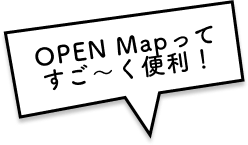
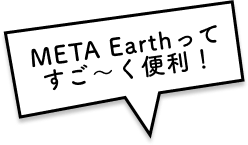
a

Changed region(s): [[0.1129, 0.1655, 0.875, 0.469]]

diff --git a/src/app/(index)/components/use.tsx b/src/app/(index)/components/use.tsx
@@ -9,10 +9,7 @@ const list = [
     title: "地元のカフェ・レストラン",
     content: (
       <>
-        「今日のランチはどこにしよう？」そんな時におすすめしたいのが、OPEN
-        Mapで見つけた地元の人気カフェ。
-        <br />
-        特典付きのクーポンが使えるのでちょっとお得に美味しいランチを楽しめます。新しいお気に入りのカフェを見つけてみては？
+        「今日のランチはどこにしよう？」そんな時におすすめしたいのが、META Earthで見つけた地元の人気カフェ。<br />特典付きのクーポンが使えるのでちょっとお得に美味しいランチを楽しめます。新しいお気に入りのカフェを見つけてみては？
       </>
     ),
   },
@@ -21,11 +18,8 @@ const list = [
     title: "薬局・ドラッグストア",
     content: (
       <>
-        急に必要になった薬や日用品、どこで買えばいいか迷ったらOPEN
-        Mapでチェック！
-        <br />
-        近くの薬局で、ポイントアップのキャンペーンが開催中。
-        <br />
+        急に必要になった薬や日用品、どこで買えばいいか迷ったらMETA Earthでチェック！<br />
+        近くの薬局で、ポイントアップのキャンペーンが開催中。<br />
         日常のお買い物がもっとお得になりますよ。
       </>
     ),
@@ -35,10 +29,8 @@ const list = [
     title: "アミューズメントパーク",
     content: (
       <>
-        家族や友達と過ごす週末、どこに行こうか迷ったら、近くのアミューズメントパークで楽しんでみては？
-        <br />
-        OPEN
-        Mapを使えば、特別割引のNFTも手に入るので、遊びながらお得に過ごせます。
+        家族や友達と過ごす週末、どこに行こうか迷ったら、近くのアミューズメントパークで楽しんでみては？<br />
+        META Earthを使えば、特別割引のNFTも手に入るので、遊びながらお得に過ごせます。
       </>
     ),
   },
@@ -47,8 +39,7 @@ const list = [
     title: "ポップアップストア",
     content: (
       <>
-        街を歩いていたらOPEN Mapに期間限定のポップアップストアが表示されました！
-        普段は手に入らないアイテムやお得なキャンペーンが目白押し！
+        街を歩いていたらMETA Earthに期間限定のポップアップストアが表示されました！ 普段は手に入らないアイテムやお得なキャンペーンが目白押し！
         <br />
         今だけの特別なショッピング体験をぜひお見逃しなく！
       </>
@@ -59,9 +50,7 @@ const list = [
     title: "美容院・理容室",
     content: (
       <>
-        髪を切りたいなと思ったら、OPEN Mapで近くの美容院を探してみてください！
-        初回限定クーポン付きの美容院がすぐに見つかり、気軽に予約もできちゃいます。
-        新しい自分に生まれ変わるチャンスかも？
+        髪を切りたいなと思ったら、META Earthで近くの美容院を探してみてください！ 初回限定クーポン付きの美容院がすぐに見つかり、気軽に予約もできちゃいます。 新しい自分に生まれ変わるチャンスかも？
       </>
     ),
   },
@@ -70,10 +59,7 @@ const list = [
     title: "ネイルサロン・エステサロン",
     content: (
       <>
-        季節の変わり目に合わせて、ネイルやエステを楽しんでみては？
-        <br />
-        OPEN Mapで開けば、今ならお得なクーポンが付いているサロンもありますよ。
-        リフレッシュして、新しい季節を迎えよう！
+        季節の変わり目に合わせて、ネイルやエステを楽しんでみては？<br />META Earthで開けば、今ならお得なクーポンが付いているサロンもありますよ。 リフレッシュして、新しい季節を迎えよう！
       </>
     ),
   },
@@ -82,10 +68,7 @@ const list = [
     title: "フィットネス・ヨガスタジオ",
     content: (
       <>
-        健康を意識し始めたら、まずはフィットネスジムやヨガスタジオをOPEN
-        Mapで探してみよう！
-        <br />
-        初回体験クーポン付きのスタジオが見つかれば、お試しで気軽に運動をスタートできます！
+        健康を意識し始めたら、まずはフィットネスジムやヨガスタジオをMETA Earthで探してみよう！<br />初回体験クーポン付きのスタジオが見つかれば、お試しで気軽に運動をスタートできます！
       </>
     ),
   },
@@ -94,11 +77,7 @@ const list = [
     title: "クリーニング店",
     content: (
       <>
-        衣替えの季節、クリーニングが必要な衣類をどうしよう？
-        <br />
-        そんな時はOPEN Mapで近くのクリーニング店をチェック。
-        <br />
-        今だけ割引キャンペーンを実施している店舗も簡単に見つかります！
+        衣替えの季節、クリーニングが必要な衣類をどうしよう？<br />そんな時はMETA Earthで近くのクリーニング店をチェック。<br />今だけ割引キャンペーンを実施している店舗も簡単に見つかります！
       </>
     ),
   },
@@ -107,10 +86,7 @@ const list = [
     title: "リサイクルショップ",
     content: (
       <>
-        家に眠っている不用品、どうにかしたい！
-        <br />
-        OPEN
-        Mapを開けば買取価格アップのキャンペーン中のお店も見つかって、お得に断捨離できるチャンスです！
+        家に眠っている不用品、どうにかしたい！<br />META Earthを開けば買取価格アップのキャンペーン中のお店も見つかって、お得に断捨離できるチャンスです！
       </>
     ),
   },
@@ -119,10 +95,7 @@ const list = [
     title: "自動車整備工場",
     content: (
       <>
-        「車の点検が必要だけど、どこに持っていけばいいか迷った時にはOPEN
-        Mapが便利！
-        <br />
-        オイル交換工賃無料等のサービスがある整備工場を簡単に見つけて、すぐに予約してみましょう。
+        「車の点検が必要だけど、どこに持っていけばいいか迷った時にはMETA Earthが便利！<br />オイル交換工賃無料等のサービスがある整備工場を簡単に見つけて、すぐに予約してみましょう。
       </>
     ),
   },
@@ -131,10 +104,7 @@ const list = [
     title: "スタンプラリー",
     content: (
       <>
-        地元をもっと楽しむために、OPEN Mapでスタンプラリーに参加しよう！
-        <br />
-        名所を巡りながらスタンプを集めて、限定NFTも手に入れることができます。
-        家族や友人と一緒に、楽しい冒険を楽しみましょう！
+        地元をもっと楽しむために、META Earthでスタンプラリーに参加しよう！<br />名所を巡りながらスタンプを集めて、限定NFTも手に入れることができます。 家族や友人と一緒に、楽しい冒険を楽しみましょう！
       </>
     ),
   },

diff --git a/src/app/(index)/components/faq/faq.tsx b/src/app/(index)/components/faq/faq.tsx
@@ -7,19 +7,19 @@ import useScrollAnimations from "@/hooks/useScrollAnimations";
 const faqData: FaqItemPropsType[] = [
   {
     id: "1",
-    question: "OPEN Mapとはどのようなサービスですか？",
+    question: "META Earthとはどのようなサービスですか？",
     answer: (
       <>
-        OPEN Mapは、あなたの現在地に基づいて、地域の特典やイベント情報を一目で確認できるパーソナル地域情報マップです。カフェや店舗、観光スポットなど、日常生活をもっと便利にする情報が満載です。
+        META Earthは、あなたの現在地に基づいて、地域の特典やイベント情報を一目で確認できるパーソナル地域情報マップです。カフェや店舗、観光スポットなど、日常生活をもっと便利にする情報が満載です。
       </>
     ),
   },
   {
     id: "2",
-    question: "OPEN Mapは無料で利用できますか？",
+    question: "META Earthは無料で利用できますか？",
     answer: (
       <>
-        はい、OPEN Mapは無料で利用できます。地図上で特典や情報を探して、割引やキャンペーンなどを簡単に利用することができます。
+        はい、META Earthは無料で利用できます。地図上で特典や情報を探して、割引やキャンペーンなどを簡単に利用することができます。
       </>
     ),
   },
@@ -28,16 +28,16 @@ const faqData: FaqItemPropsType[] = [
     question: "どのような特典が見つかりますか？",
     answer: (
       <>
-        OPEN Mapでは、カフェの割引クーポンや、ショップで使えるポイントアップキャンペーン、観光地でのスタンプラリー参加券など、地域の特典をたくさん見つけることができます。
+        META Earthでは、カフェの割引クーポンや、ショップで使えるポイントアップキャンペーン、観光地でのスタンプラリー参加券など、地域の特典をたくさん見つけることができます。
       </>
     ),
   },
   {
     id: "4",
-    question: "OPEN Mapはどの地域で利用できますか？",
+    question: "META Earthはどの地域で利用できますか？",
     answer: (
       <>
-        OPEN Mapは世界中で対応しており、パートナー店舗も順次拡大中です。ご利用可能なエリアは、マップ上で簡単に確認できます。
+        META Earthは世界中で対応しており、パートナー店舗も順次拡大中です。ご利用可能なエリアは、マップ上で簡単に確認できます。
       </>
     ),
   },
@@ -46,7 +46,7 @@ const faqData: FaqItemPropsType[] = [
     question: "NFTとは何ですか？",
     answer: (
       <>
-        NFT（Non-Fungible Token）とは、デジタルアイテムや特典の所有権を証明する唯一無二のデジタル資産です。OPEN Mapでは、特定のイベントや場所でNFT特典を受け取ることができ、それを使って割引や限定サービスを受けることができます。
+        NFT（Non-Fungible Token）とは、デジタルアイテムや特典の所有権を証明する唯一無二のデジタル資産です。META Earthでは、特定のイベントや場所でNFT特典を受け取ることができ、それを使って割引や限定サービスを受けることができます。
       </>
     ),
   },
@@ -65,7 +65,7 @@ const faqData: FaqItemPropsType[] = [
     question: "特典やキャンペーンはどのように使えますか？",
     answer: (
       <>
-        特典やキャンペーンは、OPEN Mapで発見した後、その店舗やサービスで提示するだけで簡単に利用できます。具体的な利用方法は、各特典のNFTでご確認ください。
+        特典やキャンペーンは、META Earthで発見した後、その店舗やサービスで提示するだけで簡単に利用できます。具体的な利用方法は、各特典のNFTでご確認ください。
       </>
     ),
   },
@@ -74,7 +74,7 @@ const faqData: FaqItemPropsType[] = [
     question: "Mercury Vaultとは何ですか？",
     answer: (
       <>
-        Mercury Vaultは、OPEN Mapで発行するNFTを管理するデジタルウォレットで、NFTやその他のデジタル資産を安全に管理するためのツールです。このウォレットを使うことで、受け取ったNFT特典やクーポンを簡単に保管し、必要な時に利用できます。
+      Mercury Vaultは、META Earthで発行するNFTを管理するデジタルウォレットで、NFTやその他のデジタル資産を安全に管理するためのツールです。このウォレットを使うことで、受け取ったNFT特典やクーポンを簡単に保管し、必要な時に利用できます。
       </>
     ),
   },
@@ -83,7 +83,7 @@ const faqData: FaqItemPropsType[] = [
     question: "Mercury Vaultの利用方法は？",
     answer: (
       <>
-        Mercury Vaultはアプリとしてダウンロードできます。新規ウォレットを作成して、受け取ったNFTや特典を保存し、OPEN Mapとの連携を行います。Mercury Vaultにログインすることで、いつでもNFTを確認し、特典を利用することが可能です。
+      Mercury Vaultはアプリとしてダウンロードできます。新規ウォレットを作成して、受け取ったNFTや特典を保存し、META Earthとの連携を行います。Mercury Vaultにログインすることで、いつでもNFTを確認し、特典を利用することが可能です。
       </>
     ),
   },

diff --git a/src/app/(index)/components/user.tsx b/src/app/(index)/components/user.tsx
@@ -13,8 +13,7 @@ const leftItems = [
     bgColor :"#FFEFFE",
     text: (
       <>
-        OPEN
-        Mapで初めて知ったカフェやお店がたくさんあって、<span className="font-bold">週末ごとに新しい場所を開拓するのが楽しくなりました。</span>
+      META Earthで初めて知ったカフェやお店がたくさんあって、<span className="font-bold">週末ごとに新しい場所を開拓するのが楽しくなりました。</span>
       </>
     ),
   },
@@ -32,8 +31,7 @@ const leftItems = [
     bgColor :"#DEFFFD",
     text: (
       <>
-        OPEN
-        Mapを使い始めてから、普段目にしない近場のイベントやキャンペーンの情報を見つけられるようになりました。<span className="font-bold">こんなに多くの情報を見逃していたんだって感じです。</span>
+        META Earthを使い始めてから、普段目にしない近場のイベントやキャンペーンの情報を見つけられるようになりました。<span className="font-bold">こんなに多くの情報を見逃していたんだって感じです。</span>
       </>
     ),
   },
@@ -63,8 +61,7 @@ const rightItems = [
     bgColor :"#FFEFFE",
     text: (
       <>
-        OPEN
-        Mapの<span className="font-bold">NFTは無料で送れるので、友人にNFTクーポンをプレゼントしたら、とても喜んでもらえました。</span>
+        META Earthの<span className="font-bold">NFTは無料で送れるので、友人にNFTクーポンをプレゼントしたら、とても喜んでもらえました。</span>
       </>
     ),
   },

diff --git a/src/app/(index)/components/about.tsx b/src/app/(index)/components/about.tsx
@@ -25,7 +25,7 @@ const About = () => {
                     <img src="/assets/images/about-img-2.png" alt="" />
                 </figure>
                 <div className="fade-up max-md:mt-10 dt:text-[24px] text-[16px] md:text-[1.667vw] leading-loose flex flex-col items-center md:items-end font-bold px-5 md:px-10 md:pb-5 space-y-2.5">
-                <span className="text-[#DF0F47]">あなたのすぐそばで使える特典、イベント、ショップ情報がNFTとなり、リアルタイムで更新される地域情報サービスが爆誕！</span><br />今すぐOPEN Mapを開いて、これまで気づかなかった地元の魅力や、限定特典を見つけに出かけよう！
+                <span className="text-[#DF0F47]">あなたのすぐそばで使える特典、イベント、ショップ情報がNFTとなり、リアルタイムで更新される地域情報サービスが爆誕！</span><br />今すぐMETA Earthを開いて、これまで気づかなかった地元の魅力や、限定特典を見つけに出かけよう！
                 </div>
             </div>
         </div>

diff --git a/src/app/(index)/components/howto.tsx b/src/app/(index)/components/howto.tsx
@@ -84,7 +84,7 @@ const Howto = () => {
         <figure className="md:w-auto max-md:max-w-[200px] w-full absolute left-[0] top-[0] z-10 rotate-[-10deg]">
           <img className="w-full korokoro" src="/assets/images/bubble.png" alt="" />
         </figure>
-        <Button>OPEN Mapへ</Button>
+        <Button>META Earthへ</Button>
       </div>
       
 

diff --git a/src/components/footer.tsx b/src/components/footer.tsx
@@ -28,7 +28,7 @@ const Footer = () => {
         </li>
       </ul>
       <p className="md:text-[14px] text-[12px] text-[#0F0F0F] text-center font-light">
-        Copyright © OPEN Map
+        Copyright © META Earth
       </p>
     </footer>
   );
